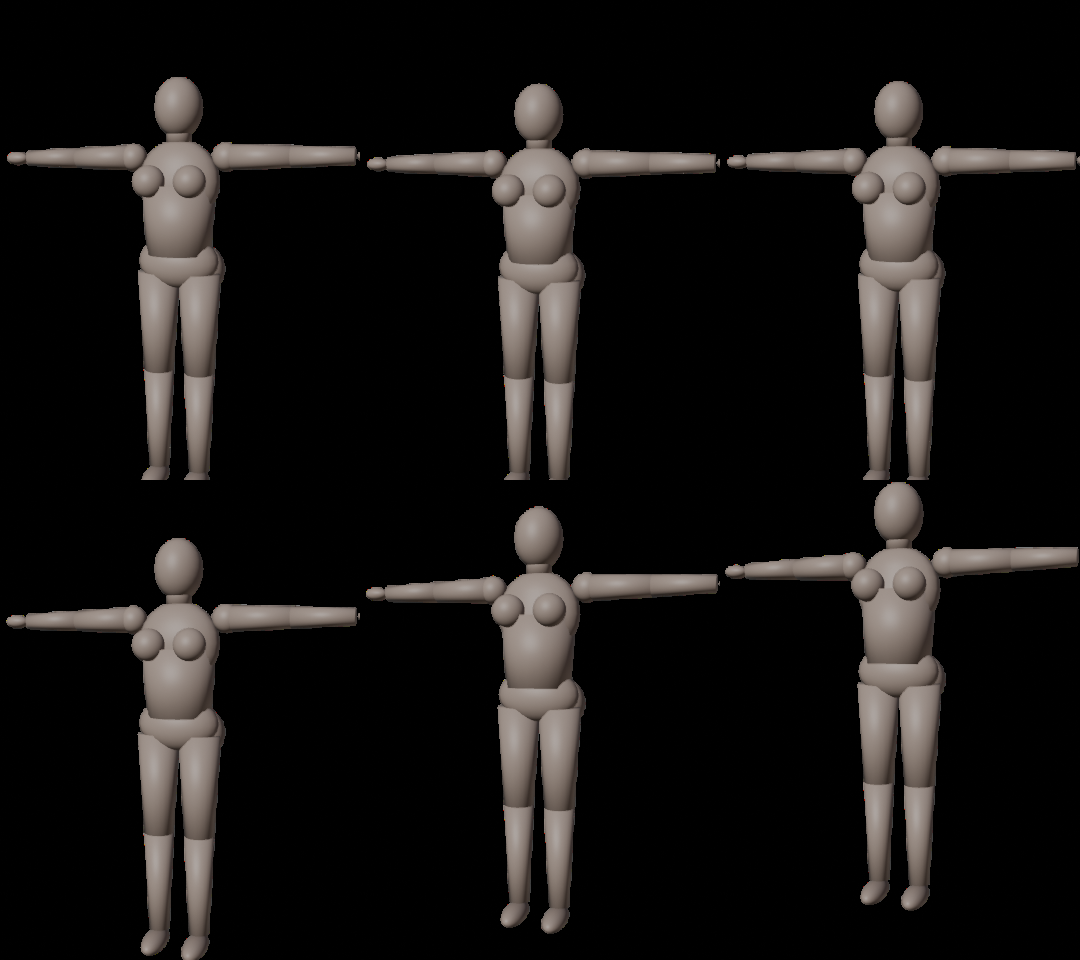
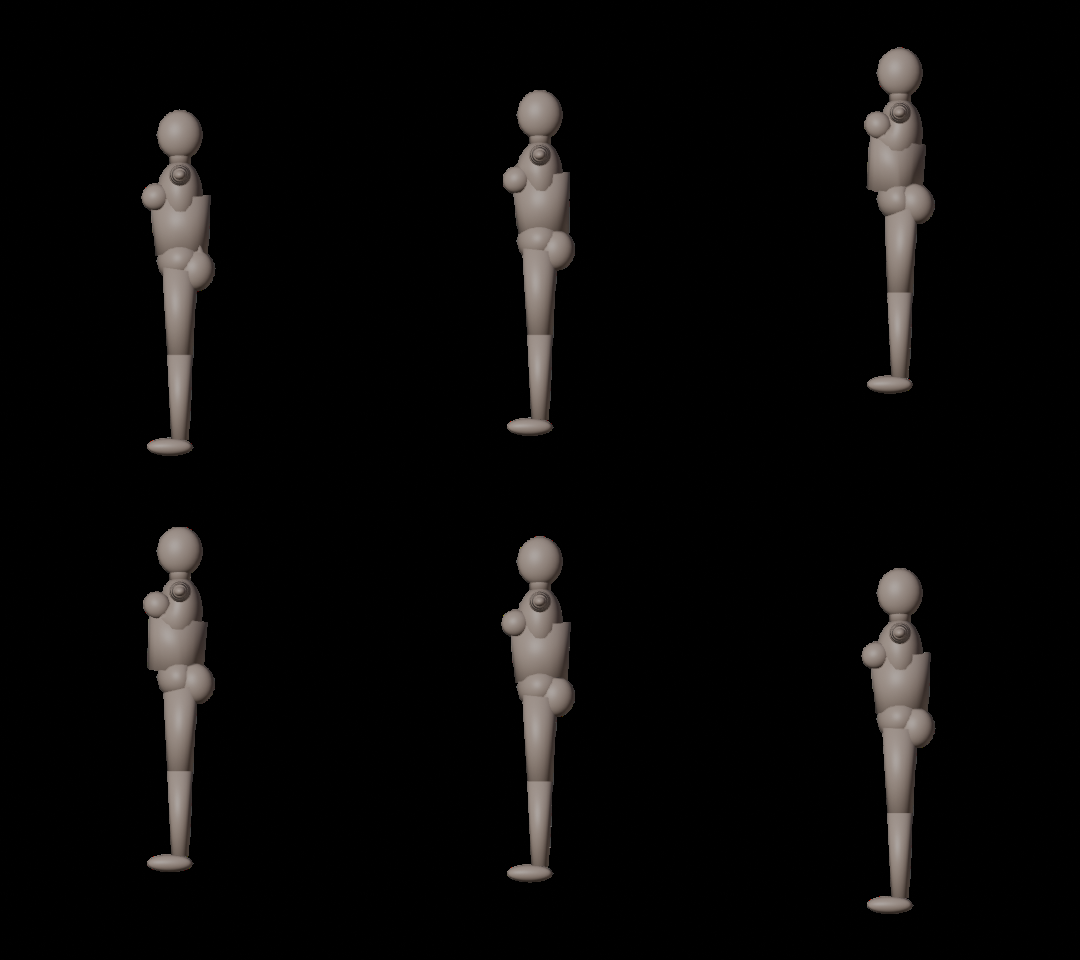
Exaggerate jiggle and side view in jump render test
Claude-Session: https://claude.ai/code/session_01RR3hqBBpXtUNbEBVCKLXNy

Changed region(s): [[0.0, 0.0312, 1.0, 0.9688], [0.0, 0.5312, 0.3361, 1.0]]

diff --git a/blender/render_jump.py b/blender/render_jump.py
@@ -13,12 +13,16 @@ pb = a.pose.bones["pelvis"]
 for f, z in {1: 0, 8: -0.08, 16: 0.25, 24: 0, 32: -0.08, 40: 0.25, 48: 0}.items():
     pb.location = (0, z, 0); pb.keyframe_insert("location", frame=f)
 bpy.ops.object.mode_set(mode='OBJECT')
+# jiggle exagerado so para este teste (os valores padrao do bake_jiggle.py ficam como estao)
+bake_jiggle.SETTINGS["jiggle_breast"] = dict(freq=2.5, damping=0.08, max_offset=0.16)
+bake_jiggle.SETTINGS["jiggle_glute"] = dict(freq=3.0, damping=0.10, max_offset=0.14)
 bake_jiggle.bake(a)
 sc.render.engine = 'BLENDER_WORKBENCH'
 sc.render.resolution_x, sc.render.resolution_y = 360, 480
 sh = sc.display.shading; sh.light = 'STUDIO'; sh.color_type = 'SINGLE'; sh.single_color = (0.85, 0.65, 0.55)
-cam = bpy.data.objects.new("Cam", bpy.data.cameras.new("Cam")); sc.collection.objects.link(cam)
-cam.location = (0.9, -2.6, 1.3); cam.rotation_euler = (math.radians(84), 0, math.radians(19)); sc.camera = cam
+cd = bpy.data.cameras.new("Cam"); cd.type = 'ORTHO'; cd.ortho_scale = 2.4
+cam = bpy.data.objects.new("Cam", cd); sc.collection.objects.link(cam)
+cam.location = (4, 0, 1.0); cam.rotation_euler = (math.radians(90), 0, math.radians(90)); sc.camera = cam  # vista lateral
 for f in range(1, 49, 2):
     sc.frame_set(f); sc.render.filepath = os.path.join(OUT, f"f{f:02d}.png")
     bpy.ops.render.render(write_still=True)
